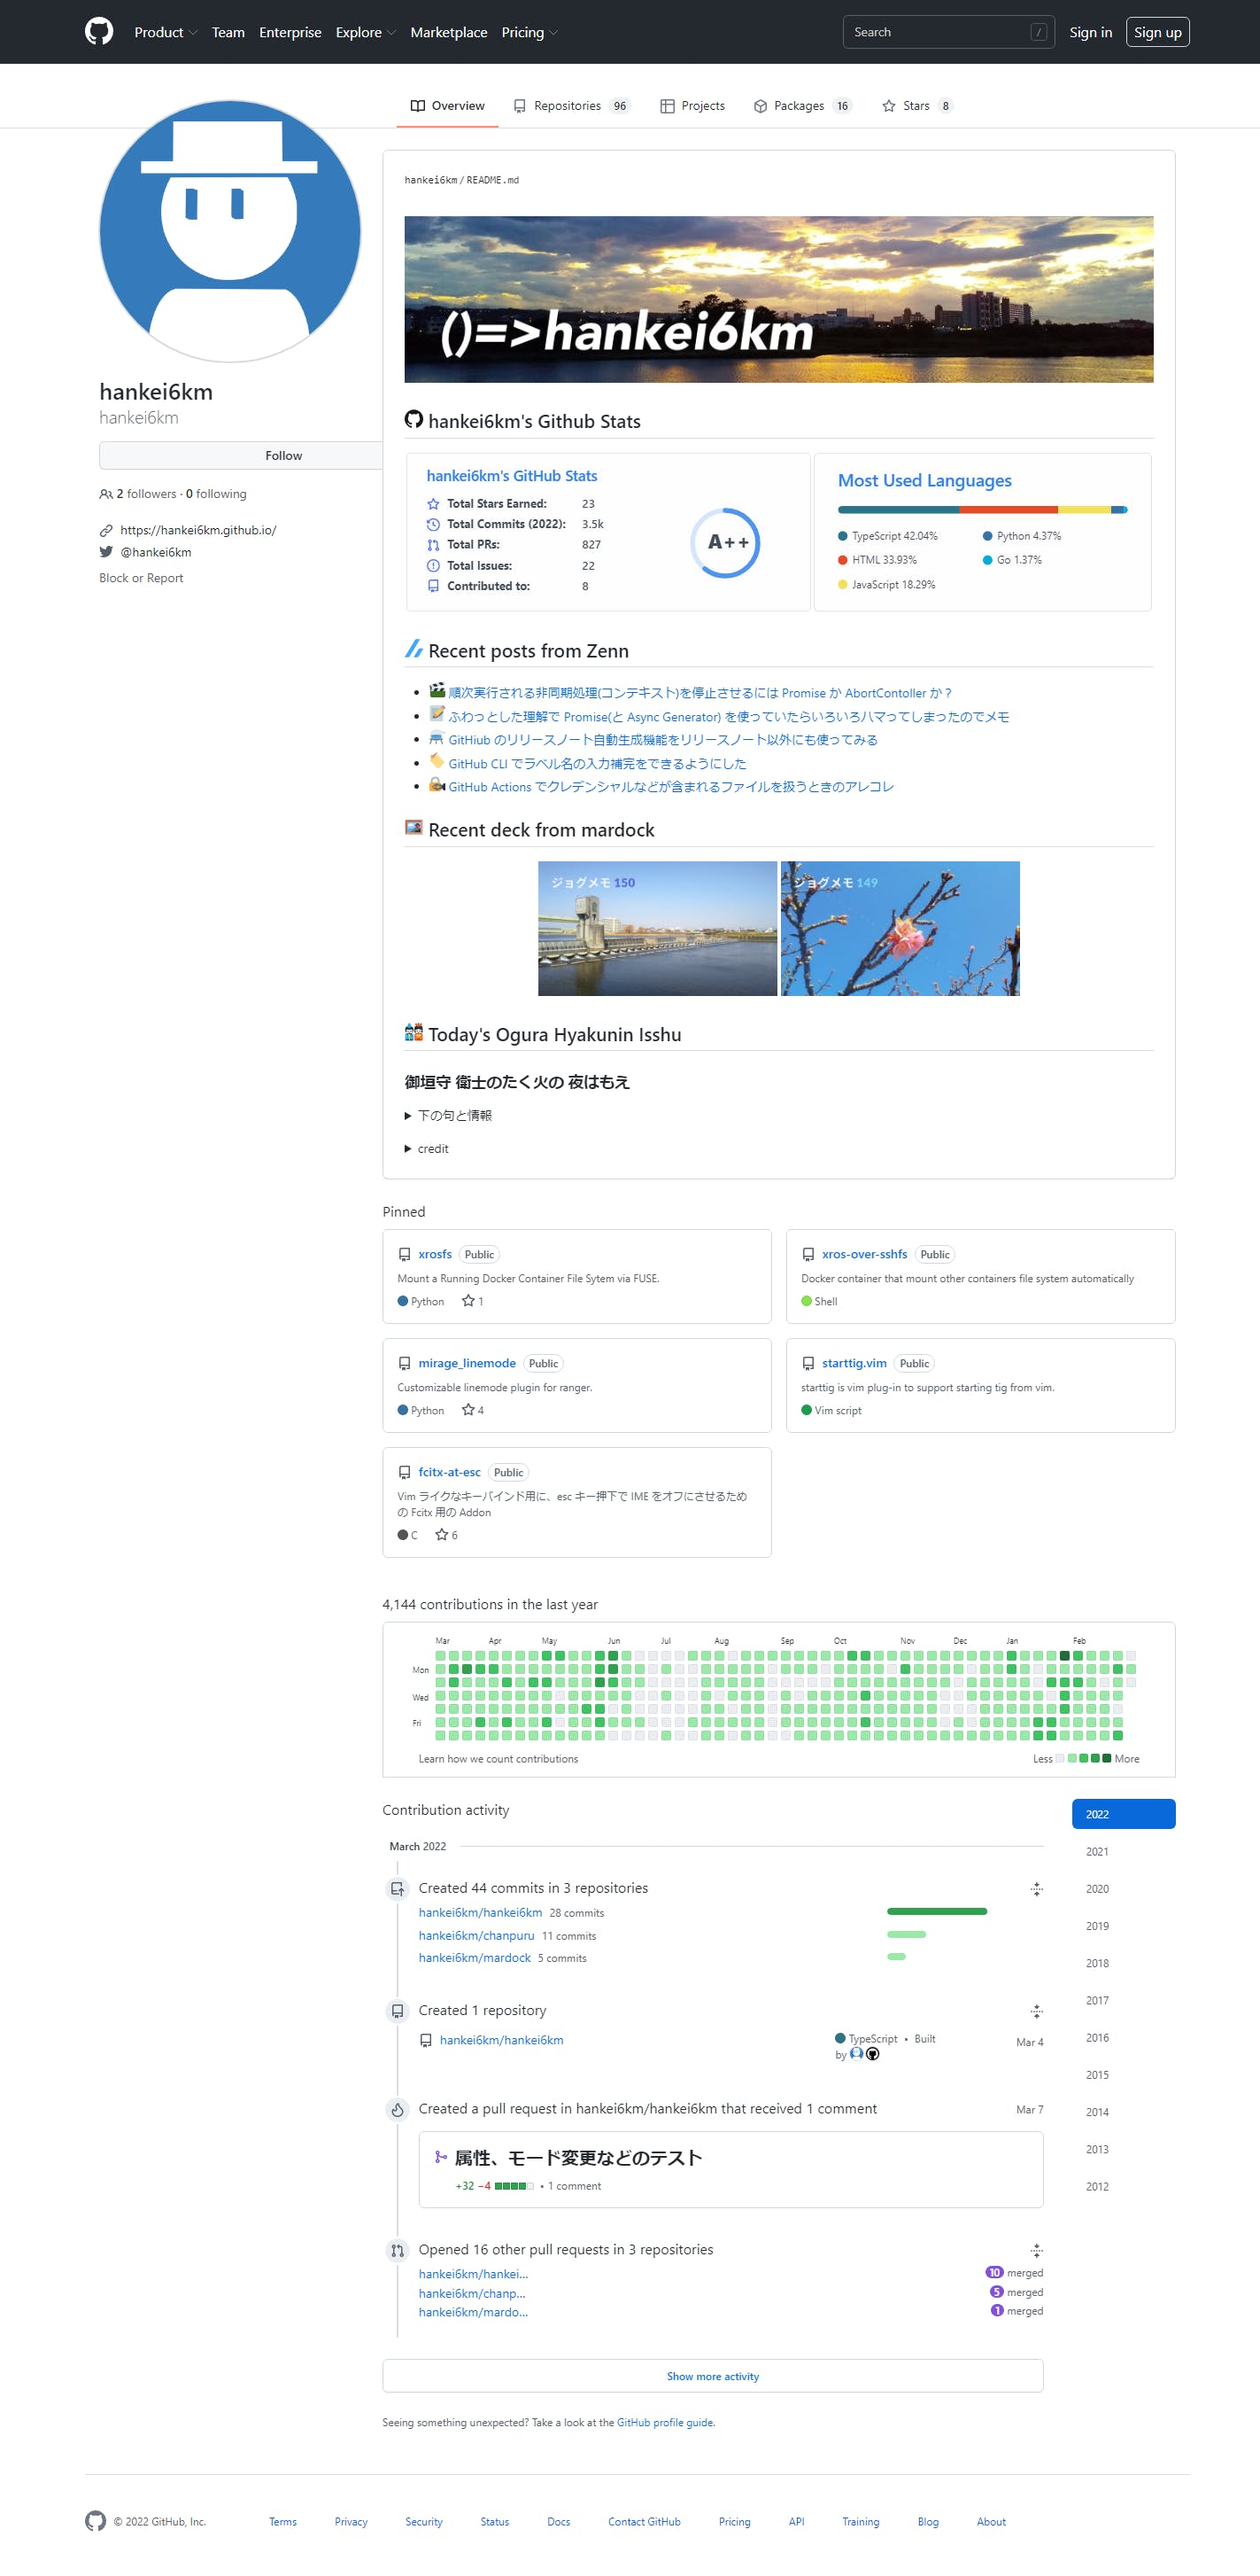
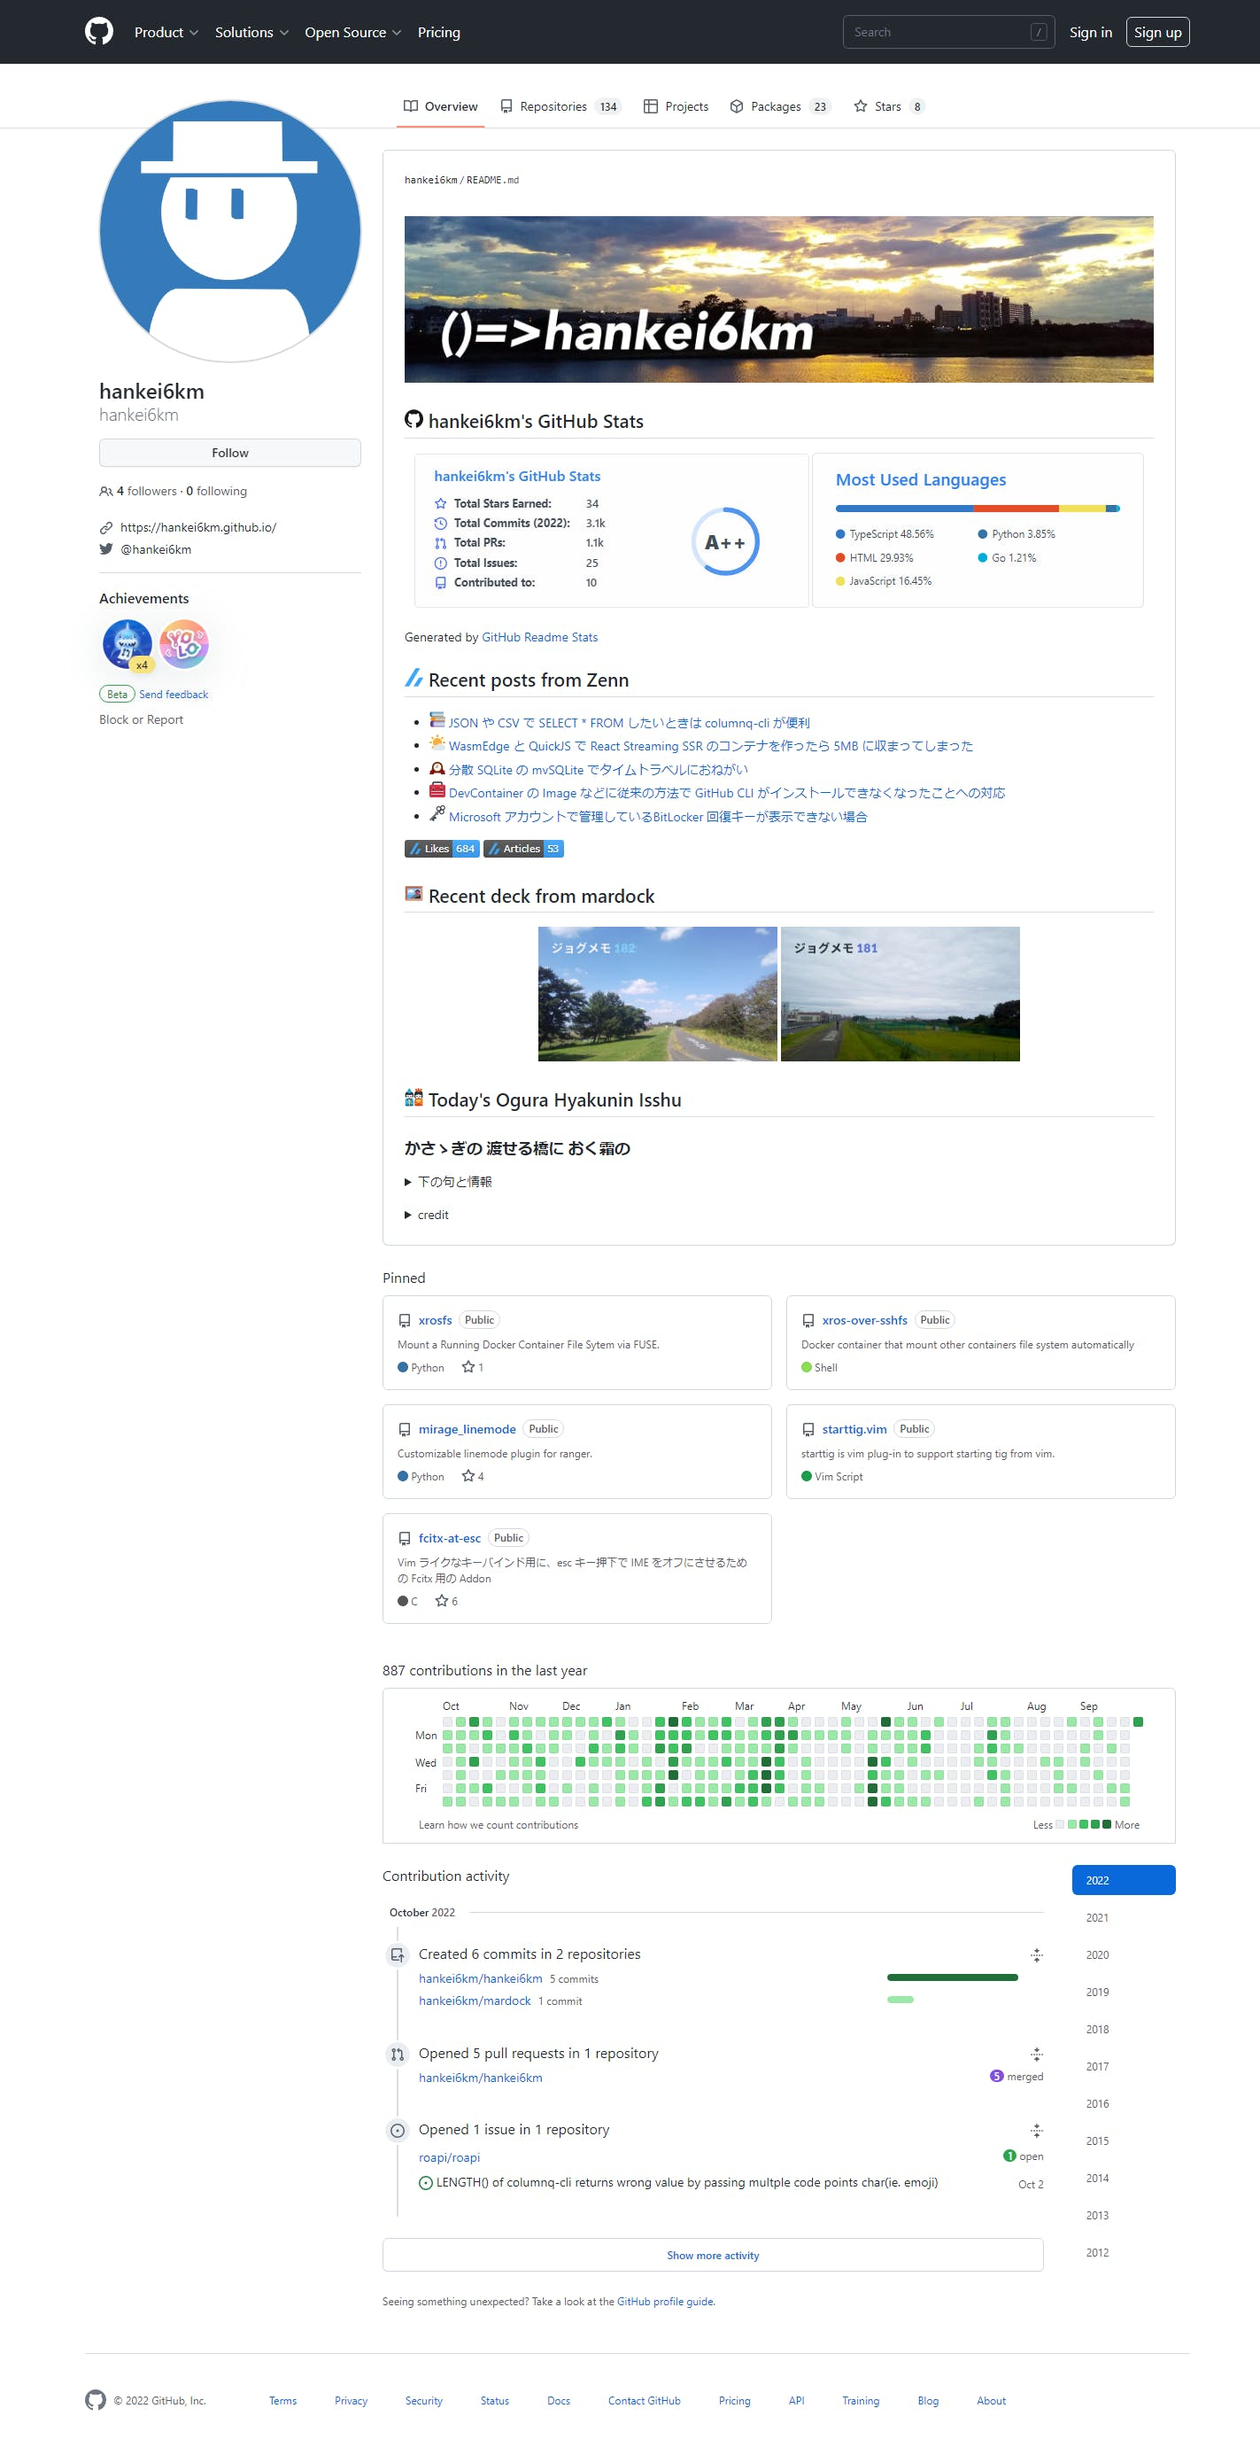
Update `automatically-update-github-profile.md`

diff --git a/articles/automatically-update-github-profile.md b/articles/automatically-update-github-profile.md
@@ -15,9 +15,11 @@ published: true
 
 @[card](https://zenn.dev/kawarimidoll/articles/283179cffd2ef6)
 
+*   2022-10-02 更新: Zenn のバッジを追加しました
+
 ## 全体像
 
-現状では以下のような感じになっています。よく見かける構成ですが、Zenn 記事の一覧にアイキャッチ画像(emoji)を表示させています。
+現状では以下のような感じになっています。よく見かける構成ですが、Zenn 記事の一覧にアイキャッチ画像(emoji)とバッジを表示させています。
 
 ![Profile ページ全体のスクリーンショット](/images/automatically-update-github-profile/automatically-update-github-profile-overview.png)
 *全体の表示*
@@ -189,7 +191,7 @@ Generated by [GitHub Readme Stats](https://github.com/anuraghazra/github-readme-
 
 ### Zenn 記事の一覧
 
-![](https://images.microcms-assets.io/assets/1fff6177c5c74aac8d5158dc17492c92/b641c687f59647839dc0cba5a5de261a/automatically-update-github-profile-overview.png?auto=compress%2Cformat\&border64=MSw1NTAwMDAwMA\&rect64=NDQwLDczNiw4ODAsMjI1)
+![](https://images.microcms-assets.io/assets/1fff6177c5c74aac8d5158dc17492c92/c93e3a8aede045829503811d37d2528a/automatically-update-github-profile-zenn-badge-light.png?auto=compress%2Cformat)
 
 Zenn 記事の一覧自体は冒頭の記事にあるように RSS フィードで取得できます。しかし、RSS フィードにはアイキャッチ(絵文字)情報が含まれていなったので以下のようなコマンドを作成しました。
 
@@ -220,6 +222,34 @@ $ zx dist/zenn-articles.js --limit 5
 
 なお、[Twemoji] の表示サイズ指定は [GitHub Mobile] の挙動にあわせて `width` `height` 属性で行っています。
 
+### Zenn のバッジ
+
+記事一覧のバッジは下記のサービスを利用しています。
+
+@[card](https://zenn.dev/kou_pg_0131/articles/badge-generator-introduction)
+@[card](https://badgen.org/)
+
+スタイルにもよりますが、`flat` などはカラーテーマを変えても違和感がなかったので共通で利用できそうです。
+
+![ダークモードで Zenn 記事とバッジを表示しているスクリーンショット](https://images.microcms-assets.io/assets/1fff6177c5c74aac8d5158dc17492c92/53bc073990a1440b9f64255844bf323d/automatically-update-github-profile-zenn-badge-dark.png?w=840\&h=261\&auto=compress%2Cformat)
+
+▲ *図 5-4 ダークモードでの表示*
+
+また、[GitHub Mobile] でもサイズ指定なしでよい感じに表示されます。
+
+![GitHub Mobile で Zenn 記事とバッジを表示しているスクリーンショット](https://images.microcms-assets.io/assets/1fff6177c5c74aac8d5158dc17492c92/0cb37ef6560c47119ea24912a0370943/automatically-update-github-profile-zenn-badge-mobile.png?w=1080\&h=740\&auto=compress%2Cformat)
+
+▲ *図 5-5 GitHub Mobile での表示*
+
+よって、Zenn のバッジは[上記サービス](https://badgen.org/)で生成されたソースを貼り付けるだけで対応できました。
+
+▼ *リスト 5-3 生成された Markdown を利用*
+
+```md:templates/README-template.md
+[![Likes](https://badgen.org/img/zenn/hankei6km/likes?style=flat)](https://zenn.dev/hankei6km)
+[![Articles](https://badgen.org/img/zenn/hankei6km/articles?style=flat)](https://zenn.dev/hankei6km)
+```
+
 ### mardock スライドのサムネイル
 
 ![](https://images.microcms-assets.io/assets/1fff6177c5c74aac8d5158dc17492c92/b641c687f59647839dc0cba5a5de261a/automatically-update-github-profile-overview.png?auto=compress%2Cformat\&border64=MSw1NTAwMDAwMA\&rect64=NDQwLDkzNiw4ODAsMjUw)
@@ -228,7 +258,7 @@ $ zx dist/zenn-articles.js --limit 5
 
 なお、ここでも画像サイズについての問題が出てきますが、「モバイル環境でも縮小されないだろう値」を指定することで回避しています。
 
-▼ *図 5-4 mardockの スライドサムネイルの生成*
+▼ *図 5-6 mardockの スライドサムネイルの生成*
 
 ```shell-session
 $ zx dist/mardock-card.js 
@@ -244,7 +274,7 @@ $ zx dist/mardock-card.js
 
 なお、元のデータは LOD(Linked Open Data)なので、表示の方法はいろいろ工夫できそうですが今回は単純に `<a>` で表示しています[^lod]。
 
-▼ *図 5-5 ランダムな小倉百人一首*
+▼ *図 5-7 ランダムな小倉百人一首*
 
 ```shell-session
 $ zx dist/ogura-shuffle.js 
